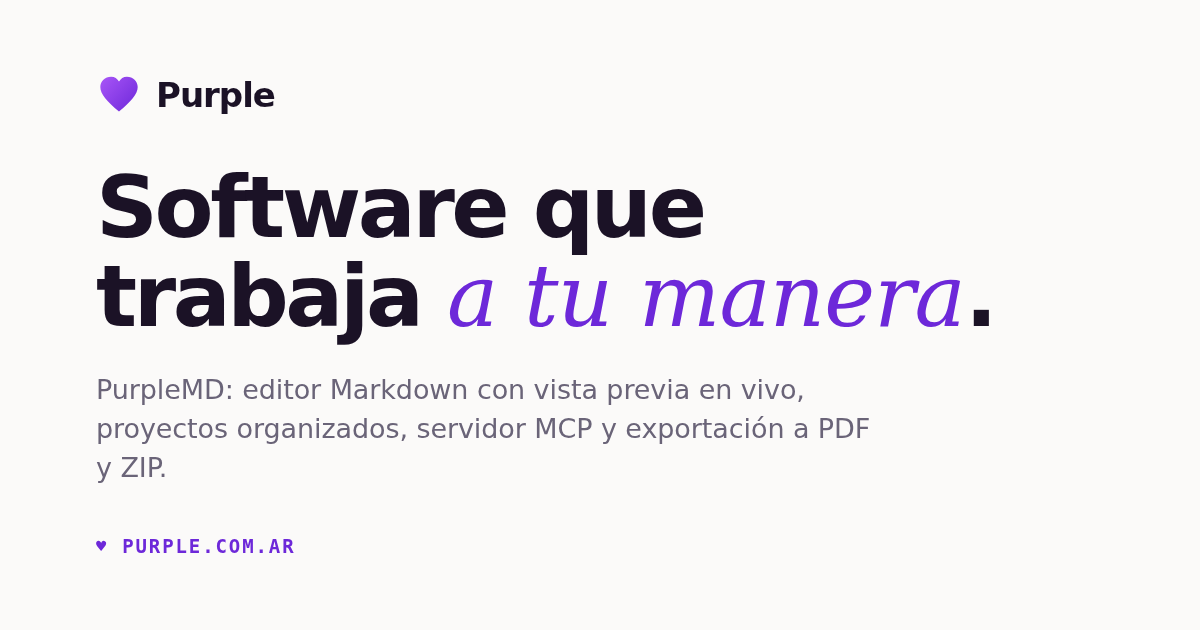
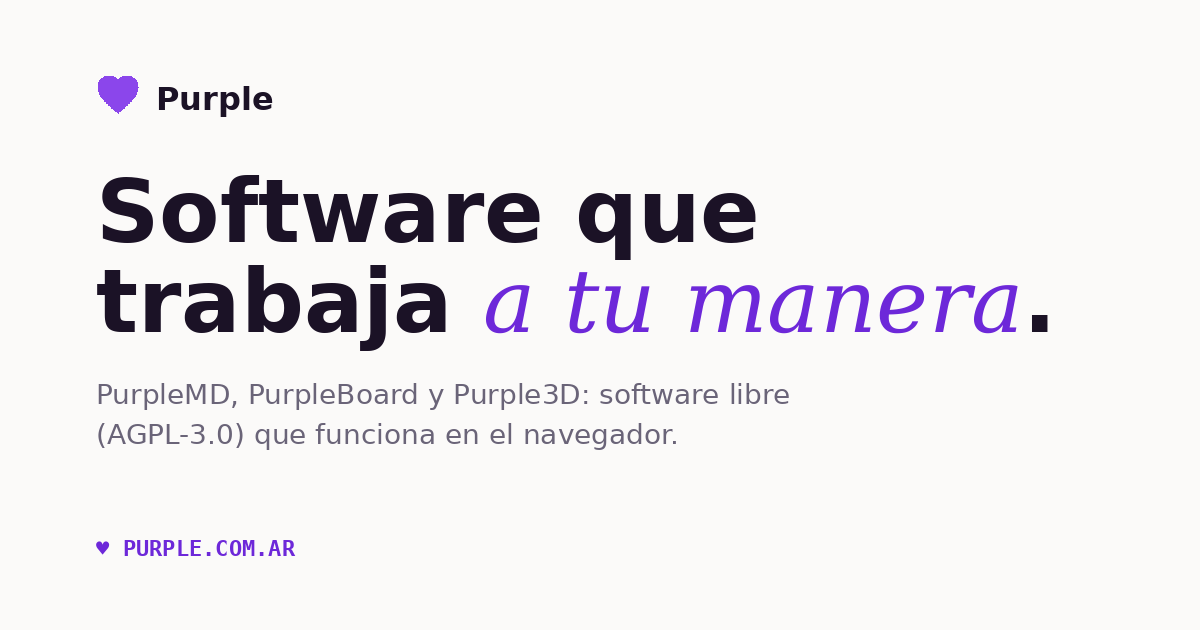
feat: actualiza pagina institucional con productos nuevos

diff --git a/index.html b/index.html
@@ -4,7 +4,7 @@
   <meta charset="utf-8">
   <meta name="viewport" content="width=device-width, initial-scale=1, viewport-fit=cover">
   <title>Purple · Software que trabaja a tu manera</title>
-  <meta name="description" content="Tres herramientas de Purple: PurpleMD para escribir en Markdown, 3D para panelizar steelframing y drywall, y Board, pizarra colaborativa. En el navegador, sin instalar.">
+  <meta name="description" content="Purple: PurpleMD (editor Markdown), PurpleBoard (pizarra colaborativa) y Purple3D (visualizador de paneles de steelframing y drywall). Software libre AGPL-3.0, en el navegador.">
   <meta name="theme-color" content="#6d28d9">
   <link rel="icon" type="image/svg+xml" href="static/assets/purple.svg">
   <link rel="canonical" href="https://purple.com.ar/">
@@ -14,11 +14,11 @@
   <meta property="og:locale" content="es_AR">
   <meta property="og:url" content="https://purple.com.ar/">
   <meta property="og:title" content="Purple · Software que trabaja a tu manera">
-  <meta property="og:description" content="Tres herramientas de Purple: PurpleMD para escribir en Markdown, 3D para panelizar steelframing y drywall, y Board, pizarra colaborativa. En el navegador, sin instalar.">
+  <meta property="og:description" content="Purple: PurpleMD (editor Markdown), PurpleBoard (pizarra colaborativa) y Purple3D (visualizador de paneles de steelframing y drywall). Software libre AGPL-3.0, en el navegador.">
   <meta property="og:image" content="https://purple.com.ar/static/assets/og-image.png">
   <meta name="twitter:card" content="summary_large_image">
   <meta name="twitter:title" content="Purple · Software que trabaja a tu manera">
-  <meta name="twitter:description" content="Tres herramientas de Purple: PurpleMD para escribir en Markdown, 3D para panelizar steelframing y drywall, y Board, pizarra colaborativa. En el navegador, sin instalar.">
+  <meta name="twitter:description" content="Purple: PurpleMD (editor Markdown), PurpleBoard (pizarra colaborativa) y Purple3D (visualizador de paneles de steelframing y drywall). Software libre AGPL-3.0, en el navegador.">
   <meta name="twitter:image" content="https://purple.com.ar/static/assets/og-image.png">
 
   <link rel="preload" href="static/fonts/inter-latin.woff2" as="font" type="font/woff2" crossorigin>
@@ -116,8 +116,9 @@
         </h1>
 
         <p class="hero-bajada">
-          Escribís, visualizás, pensás en equipo. Tres herramientas de Purple,
-          directas y cuidadas, todas en el navegador.
+          Escribir, pensar en equipo y visualizar paneles. Tres herramientas
+          libres, directas y cuidadas, que funcionan en el navegador sin
+          instalar nada.
         </p>
 
         <div class="hero-ctas">
@@ -125,7 +126,7 @@
             Ver los productos
           </a>
           <a class="btn btn-secundario btn-grande" href="#empresas">
-            Para organizaciones
+            Para empresas
           </a>
         </div>
       </div>
@@ -136,20 +137,19 @@
       <div class="container">
         <header class="encabezado">
           <p class="etiqueta">Productos</p>
-          <h2 class="titulo-seccion" id="productos-titulo">Escribí, visualizá, pensá en equipo.</h2>
+          <h2 class="titulo-seccion" id="productos-titulo">Escribí, pensá en equipo, visualizá.</h2>
           <p class="bajada">
             Tres herramientas de Purple, cada una para un momento distinto del
-            trabajo. Todas se abren en el navegador.
+            trabajo. Software libre, en el navegador.
           </p>
         </header>
 
         <ul class="valores">
           <li class="valor">
+            <span class="valor-tipo">Editor Markdown</span>
             <h3 class="valor-titulo">PurpleMD</h3>
-            <p class="valor-texto">
-              Editor Markdown con vista previa en vivo, proyectos en carpetas y
-              exportación a PDF o ZIP.
-            </p>
+            <p class="valor-texto">Editor Markdown liviano, autohospedado y de código abierto. Vista previa en vivo, exportación a PDF, Google Auth y Drive, e integración con MCP.</p>
+            <ul class="valor-tags" aria-label="Características de PurpleMD"><li>Vista previa en vivo</li><li>PDF</li><li>Google Drive</li><li>MCP</li></ul>
             <a class="enlace-flecha valor-enlace" href="https://md.purple.com.ar" target="_blank" rel="noopener noreferrer">
               Abrir PurpleMD
               <svg viewBox="0 0 16 16" width="14" height="14" fill="none" stroke="currentColor" stroke-width="1.6" stroke-linecap="round" stroke-linejoin="round" aria-hidden="true" focusable="false">
@@ -160,13 +160,12 @@
           </li>
 
           <li class="valor">
-            <h3 class="valor-titulo">3D</h3>
-            <p class="valor-texto">
-              Panelización en 3D de steelframing y drywall, con el listado de
-              corte listo para exportar.
-            </p>
-            <a class="enlace-flecha valor-enlace" href="https://3d.purple.com.ar" target="_blank" rel="noopener noreferrer">
-              Abrir 3D
+            <span class="valor-tipo">Pizarra colaborativa</span>
+            <h3 class="valor-titulo">PurpleBoard</h3>
+            <p class="valor-texto">Pizarra colaborativa peer-to-peer, open source y 100% estática. Creá notas, dibujá, conectá ideas y sumá imágenes mientras hablás con otras personas en tiempo real, sin backend y sin registro.</p>
+            <ul class="valor-tags" aria-label="Características de PurpleBoard"><li>Peer-to-peer</li><li>Sin backend</li><li>Sin registro</li><li>Tiempo real</li></ul>
+            <a class="enlace-flecha valor-enlace" href="https://board.purple.com.ar" target="_blank" rel="noopener noreferrer">
+              Abrir PurpleBoard
               <svg viewBox="0 0 16 16" width="14" height="14" fill="none" stroke="currentColor" stroke-width="1.6" stroke-linecap="round" stroke-linejoin="round" aria-hidden="true" focusable="false">
                 <path d="M4.5 11.5 11.5 4.5M5.5 4.5h6v6"/>
               </svg>
@@ -175,13 +174,12 @@
           </li>
 
           <li class="valor">
-            <h3 class="valor-titulo">Board</h3>
-            <p class="valor-texto">
-              Pizarra colaborativa en tiempo real: post-its, imágenes, dibujo
-              libre y voz, directo entre navegadores.
-            </p>
-            <a class="enlace-flecha valor-enlace" href="https://board.purple.com.ar" target="_blank" rel="noopener noreferrer">
-              Abrir Board
+            <span class="valor-tipo">Visualizador 3D</span>
+            <h3 class="valor-titulo">Purple3D</h3>
+            <p class="valor-texto">Visualizador 3D de paneles de steelframing y drywall. Armado paso a paso, panelizado, control de faltantes y sobrantes y listado de corte exportable. Funciona en el navegador sin instalar nada.</p>
+            <ul class="valor-tags" aria-label="Características de Purple3D"><li>Steelframing</li><li>Drywall</li><li>Listado de corte</li><li>Sin instalar</li></ul>
+            <a class="enlace-flecha valor-enlace" href="https://3d.purple.com.ar" target="_blank" rel="noopener noreferrer">
+              Abrir Purple3D
               <svg viewBox="0 0 16 16" width="14" height="14" fill="none" stroke="currentColor" stroke-width="1.6" stroke-linecap="round" stroke-linejoin="round" aria-hidden="true" focusable="false">
                 <path d="M4.5 11.5 11.5 4.5M5.5 4.5h6v6"/>
               </svg>
@@ -189,62 +187,66 @@
             </a>
           </li>
         </ul>
+
+        <p class="aviso" role="note">
+          <svg viewBox="0 0 24 24" width="20" height="20" fill="none" stroke="currentColor" stroke-width="1.8" stroke-linecap="round" stroke-linejoin="round" aria-hidden="true" focusable="false">
+            <path d="M12 3.5 2.5 20h19L12 3.5z"/>
+            <path d="M12 10v4.5M12 17.2v.1"/>
+          </svg>
+          <span><strong>Purple3D: solo para visualizar.</strong> No reemplaza el plano ni el cálculo estructural.</span>
+        </p>
       </div>
     </section>
 
-    <!-- ======================================================== ENTERPRISE / EMPRESAS -->
+    <!-- ======================================================== EMPRESAS -->
     <section class="seccion seccion-enterprise" id="empresas" aria-labelledby="empresas-titulo">
       <div class="container">
         <div class="enterprise-tarjeta">
           <div class="enterprise-texto">
-            <p class="etiqueta">Organizaciones</p>
-            <h2 class="titulo-seccion-chico" id="empresas-titulo">¿Necesitás Purple en tu organización?</h2>
+            <p class="etiqueta">Empresas</p>
+            <h2 class="titulo-seccion-chico" id="empresas-titulo">¿Necesitás Purple en tu empresa?</h2>
             <p class="bajada enterprise-bajada">
-              Gratis con la licencia libre AGPL-3.0. En una organización: licencia
-              comercial, soporte, integración con tu infraestructura. Escribinos a <a class="enlace" href="mailto:purple.empresas@proton.me?subject=Consulta%20para%20organizaciones%20-%20Purple">purple.empresas@proton.me</a>.
+              Todas las soluciones de Purple (PurpleMD, PurpleBoard y Purple3D)
+              son software libre bajo AGPL-3.0: gratis para uso personal y para
+              quienes cumplan con la licencia. Si la necesitás en tu empresa,
+              te ofrezco lo siguiente. Escribime a
+              <a class="enlace" href="mailto:purple.empresas@proton.me?subject=Consulta%20para%20empresas%20-%20Purple">purple.empresas@proton.me</a>.
             </p>
           </div>
           <div class="enterprise-accion">
-            <a class="btn btn-enterprise" href="mailto:purple.empresas@proton.me?subject=Consulta%20para%20organizaciones%20-%20Purple">
-              Escribinos
-            </a>
-            <ul class="enterprise-confianza" aria-label="Garantías">
-              <li>
-                <svg viewBox="0 0 16 16" width="13" height="13" fill="none" stroke="currentColor" stroke-width="1.4" stroke-linecap="round" stroke-linejoin="round" aria-hidden="true" focusable="false">
-                  <path d="M8 1.5l5.5 2v4c0 3.5-2.5 5.5-5.5 6.5-3-1-5.5-3-5.5-6.5v-4L8 1.5z"/>
-                  <path d="M5.5 8l2 2 3-3.5"/>
-                </svg>
-                Privacidad por diseño
-              </li>
-              <li>
-                <svg viewBox="0 0 16 16" width="13" height="13" fill="none" stroke="currentColor" stroke-width="1.4" stroke-linecap="round" stroke-linejoin="round" aria-hidden="true" focusable="false">
-                  <rect x="3" y="7" width="10" height="7" rx="1.5"/>
-                  <path d="M5 7V5a3 3 0 0 1 6 0v2"/>
-                </svg>
-                Datos bajo tu control
-              </li>
-              <li>
-                <svg viewBox="0 0 16 16" width="13" height="13" fill="none" stroke="currentColor" stroke-width="1.4" stroke-linecap="round" stroke-linejoin="round" aria-hidden="true" focusable="false">
-                  <circle cx="8" cy="8" r="6"/>
-                  <path d="M8 5v3l2 2"/>
-                </svg>
-                Software libre · AGPL-3.0
-              </li>
+            <ul class="enterprise-ofrece" aria-label="Qué se ofrece">
+              <li><svg viewBox="0 0 16 16" width="14" height="14" fill="none" stroke="currentColor" stroke-width="1.6" stroke-linecap="round" stroke-linejoin="round" aria-hidden="true" focusable="false"><path d="M3 8.5l3.2 3L13 4.5"/></svg>Licencia comercial</li>
+              <li><svg viewBox="0 0 16 16" width="14" height="14" fill="none" stroke="currentColor" stroke-width="1.6" stroke-linecap="round" stroke-linejoin="round" aria-hidden="true" focusable="false"><path d="M3 8.5l3.2 3L13 4.5"/></svg>Soporte</li>
+              <li><svg viewBox="0 0 16 16" width="14" height="14" fill="none" stroke="currentColor" stroke-width="1.6" stroke-linecap="round" stroke-linejoin="round" aria-hidden="true" focusable="false"><path d="M3 8.5l3.2 3L13 4.5"/></svg>Integración con tu infraestructura</li>
             </ul>
+            <a class="btn btn-enterprise" href="mailto:purple.empresas@proton.me?subject=Consulta%20para%20empresas%20-%20Purple">
+              Escribime
+            </a>
           </div>
         </div>
       </div>
     </section>
 
-    <!-- ====================================================== PRINCIPIOS -->
-    <section class="seccion seccion-principios" aria-labelledby="principios-titulo">
-      <div class="container">
-        <h2 class="principios-titulo" id="principios-titulo">Cómo pensamos el software</h2>
-        <ul class="principios">
-          <li><strong>Simple.</strong> Sin instalación ni configuración: abrís y escribís.</li>
-          <li><strong>Tuyo.</strong> Exportás todo cuando querés, en Markdown, PDF o ZIP.</li>
-          <li><strong>Cuidado.</strong> Accesible, rápido y en español.</li>
-        </ul>
+    <!-- ============================================== DESARROLLO CONTINUO -->
+    <section class="seccion seccion-principios" id="desarrollo" aria-labelledby="desarrollo-titulo">
+      <div class="container desarrollo">
+        <span class="desarrollo-icono" aria-hidden="true">
+          <svg viewBox="0 0 24 24" width="22" height="22" fill="none" stroke="currentColor" stroke-width="1.7" stroke-linecap="round" stroke-linejoin="round" focusable="false">
+            <path d="M3 12a9 9 0 0 1 15.5-6.2L21 8"/>
+            <path d="M21 3v5h-5"/>
+            <path d="M21 12a9 9 0 0 1-15.5 6.2L3 16"/>
+            <path d="M3 21v-5h5"/>
+          </svg>
+        </span>
+        <div>
+          <h2 class="principios-titulo" id="desarrollo-titulo">Desarrollo continuo y curación</h2>
+          <p class="desarrollo-texto">
+            Estas herramientas están en desarrollo continuo. Gran parte del
+            código y las soluciones se generan con asistencia de IA, y el
+            software se va curando y refinando con el tiempo gracias al uso y
+            al feedback.
+          </p>
+        </div>
       </div>
     </section>
   </main>
@@ -267,8 +269,8 @@
           <h3 class="footer-titulo">Producto</h3>
           <ul>
             <li><a href="https://md.purple.com.ar" target="_blank" rel="noopener noreferrer">PurpleMD</a></li>
-            <li><a href="https://3d.purple.com.ar" target="_blank" rel="noopener noreferrer">3D</a></li>
-            <li><a href="https://board.purple.com.ar" target="_blank" rel="noopener noreferrer">Board</a></li>
+            <li><a href="https://board.purple.com.ar" target="_blank" rel="noopener noreferrer">PurpleBoard</a></li>
+            <li><a href="https://3d.purple.com.ar" target="_blank" rel="noopener noreferrer">Purple3D</a></li>
             <li><a href="https://github.com/ltrecanao/purplemd" target="_blank" rel="noopener noreferrer">Repositorio</a></li>
           </ul>
         </div>
@@ -296,6 +298,7 @@
 
     <div class="container footer-legal">
       <p>© 2026 Purple · Software libre (AGPL-3.0) · Desde el Alto Valle, Patagonia.</p>
+      <p>Purple3D: solo para visualizar. No reemplaza el plano ni el cálculo estructural.</p>
     </div>
   </footer>
 

diff --git a/static/css/style.css b/static/css/style.css
@@ -232,6 +232,7 @@ code {
 
 .encabezado {
   max-width: 42rem;
+  margin-bottom: clamp(2rem, 4vw, 3rem);
 }
 
 .encabezado-compacto {
@@ -657,6 +658,17 @@ figcaption {
   font-size: 0.78rem;
   font-weight: 600;
   letter-spacing: 0.08em;
+}
+
+.valor-tipo {
+  display: block;
+  margin-bottom: 0.6rem;
+  color: var(--violeta);
+  font-family: var(--mono);
+  font-size: 0.75rem;
+  font-weight: 600;
+  letter-spacing: 0.08em;
+  text-transform: uppercase;
 }
 
 .valor-titulo {
@@ -1265,4 +1277,115 @@ figcaption {
   body {
     background: #fff;
   }
+}
+
+/* ------------------------------------------------- tags de producto y aviso */
+
+.valor {
+  display: flex;
+  flex-direction: column;
+}
+
+.valor-tags {
+  display: flex;
+  flex-wrap: wrap;
+  gap: 0.4rem;
+  margin-top: 1rem;
+  list-style: none;
+  padding: 0;
+}
+
+.valor-tags li {
+  padding: 0.2rem 0.6rem;
+  border-radius: 999px;
+  background: var(--violeta-suave);
+  color: var(--violeta-hondo);
+  font-size: 0.78rem;
+  font-weight: 560;
+}
+
+.valor-enlace {
+  margin-top: auto;
+  padding-top: 1.1rem;
+}
+
+.aviso {
+  display: flex;
+  align-items: flex-start;
+  gap: 0.75rem;
+  margin-top: clamp(2rem, 4vw, 3rem);
+  padding: 0.9rem 1.1rem;
+  border: 1px solid var(--linea-fuerte);
+  border-left: 4px solid #d9a441;
+  border-radius: var(--radio);
+  background: var(--superficie);
+  color: var(--apagado);
+  font-size: 0.95rem;
+  line-height: 1.5;
+}
+
+.aviso svg {
+  flex: none;
+  margin-top: 0.1rem;
+  color: #b7791f;
+}
+
+.aviso strong {
+  color: var(--tinta);
+  font-weight: 620;
+}
+
+/* ------------------------------------------------------- empresas: qué se ofrece */
+
+.enterprise-ofrece {
+  display: flex;
+  flex-direction: column;
+  gap: 0.7rem;
+  list-style: none;
+  padding: 0;
+}
+
+.enterprise-ofrece li {
+  display: flex;
+  align-items: center;
+  gap: 0.6rem;
+  color: var(--tinta);
+  font-size: 0.95rem;
+  font-weight: 540;
+}
+
+.enterprise-ofrece svg {
+  flex: none;
+  color: var(--violeta);
+}
+
+/* ------------------------------------------------- desarrollo continuo */
+
+.desarrollo {
+  display: flex;
+  align-items: flex-start;
+  gap: 1rem;
+}
+
+.desarrollo-icono {
+  display: grid;
+  flex: none;
+  place-items: center;
+  width: 2.75rem;
+  height: 2.75rem;
+  border-radius: var(--radio);
+  background: var(--violeta-suave);
+  color: var(--violeta);
+}
+
+.desarrollo-texto {
+  max-width: 44rem;
+  margin-top: 0.6rem;
+  color: var(--texto);
+  font-size: 1.02rem;
+  line-height: 1.65;
+}
+
+.footer-legal p + p {
+  margin-top: 0.35rem;
 }
